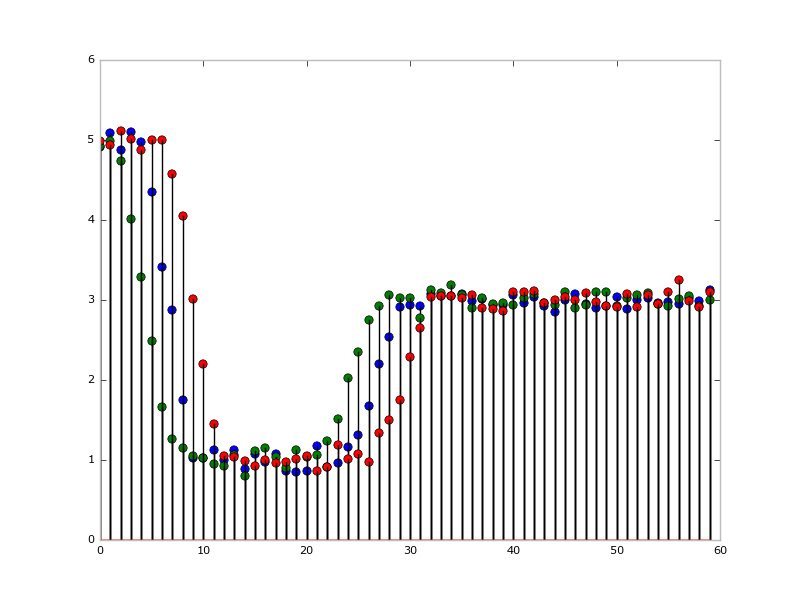
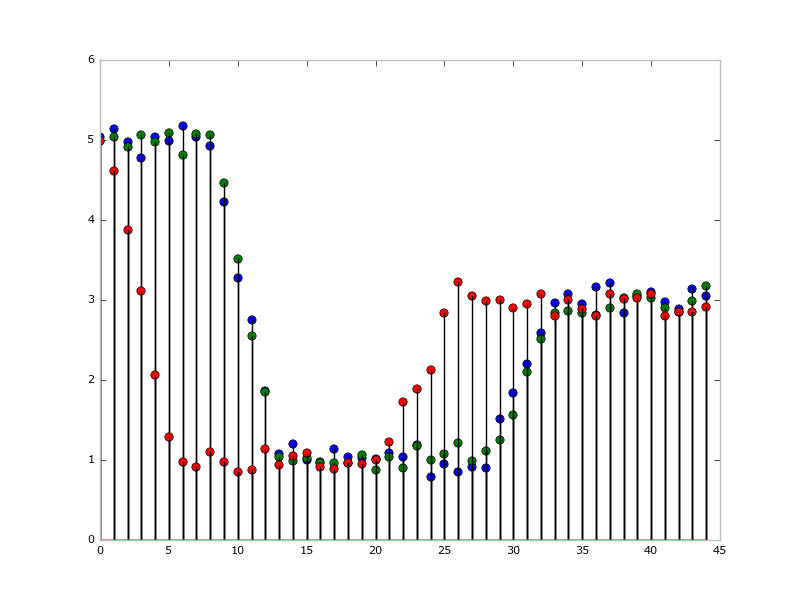
tweak plots

Changed region(s): [[0.125, 0.21, 0.9062, 0.93]]

diff --git a/scripts/check_likelihood_sampling.py b/scripts/check_likelihood_sampling.py
@@ -14,7 +14,7 @@ theta = times, vals
 _, camera_sample = \
     make_camera_model(0.1, 0.01, make_gaussian_model(sigmasq=0.01))
 
-samples = [camera_sample(theta, npr.uniform(), 60) for _ in xrange(3)]
+samples = [camera_sample(theta, npr.uniform(), 45) for _ in xrange(3)]
 
 colors = ['b', 'g', 'r']
 plt.figure(figsize=(8,6))
